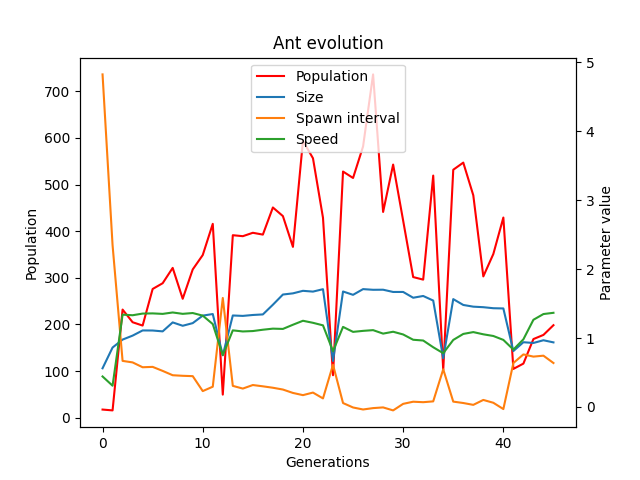
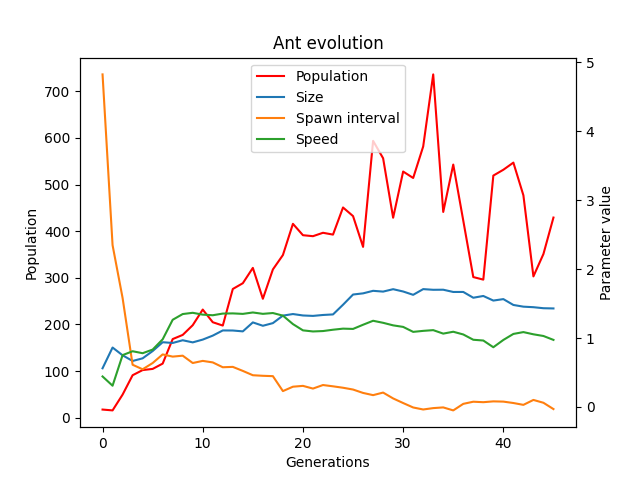
Fixed big dumb sorting issue

Changed region(s): [[0.1562, 0.1562, 0.875, 0.875]]

diff --git a/src/plotting.py b/src/plotting.py
@@ -1,3 +1,4 @@
+import re
 import os
 import yaml
 import numpy
@@ -7,10 +8,24 @@ PATH = os.path.abspath(os.path.join(os.path.abspath(__file__), "..", ".."))
 DATA_DIR = os.path.join(PATH, "data")
 
 
+def atof(text):
+    try:
+        retval = float(text)
+    except ValueError:
+        retval = text
+    return retval
+
+
+def natural_keys(text):
+    """From here https://stackoverflow.com/questions/5967500/how-to-correctly-sort-a-string-with-a-number-inside"""
+    return [atof(c) for c in re.split(r'[+-]?([0-9]+(?:[.][0-9]*)?|[.][0-9]+)', text)]
+
+
 def getDataFiles(keyword="results_"):
     files = os.listdir(DATA_DIR)
     files = [file for file in files if keyword in file]  # Python moment
-    files.sort()
+    files.sort(key=natural_keys)
+    print(files)
     return files
 
 
@@ -113,7 +128,7 @@ def plotSingleVariable(data, field):
 
 def main():
     data = loadResults()
-    # plotSingleVariable(data, "speed")
+    # plotSingleVariable(data, "spawn_interval")
     plotAllVariables(data)
 
 

diff --git a/src/path_find_testing.py b/src/path_find_testing.py
@@ -1,7 +1,7 @@
 #!/usr/bin/env python3
 
 from faux_formicidae.simulation import Simulation
-from faux_formicidae.world import AntWorld
+from faux_formicidae.world import AntWorld, Pheromones
 from faux_formicidae.ant import Ant, AntMode
 from faux_formicidae.renderer import Renderer
 
@@ -31,6 +31,7 @@ def pathFindTest():
     ant_1.antSpeed = 0.5
     ant_1.exploreDirection = 0.1
     ant_1.mode = AntMode.GO_HOME
+    ant_1.activePheromone = Pheromones.FOOD
     ant_1.setHomePosition(WIDTH_SCALE / 2.0, HEIGHT_SCALE / 2.0)
 
     sim.addAnt(ant_1, 1, 1)
